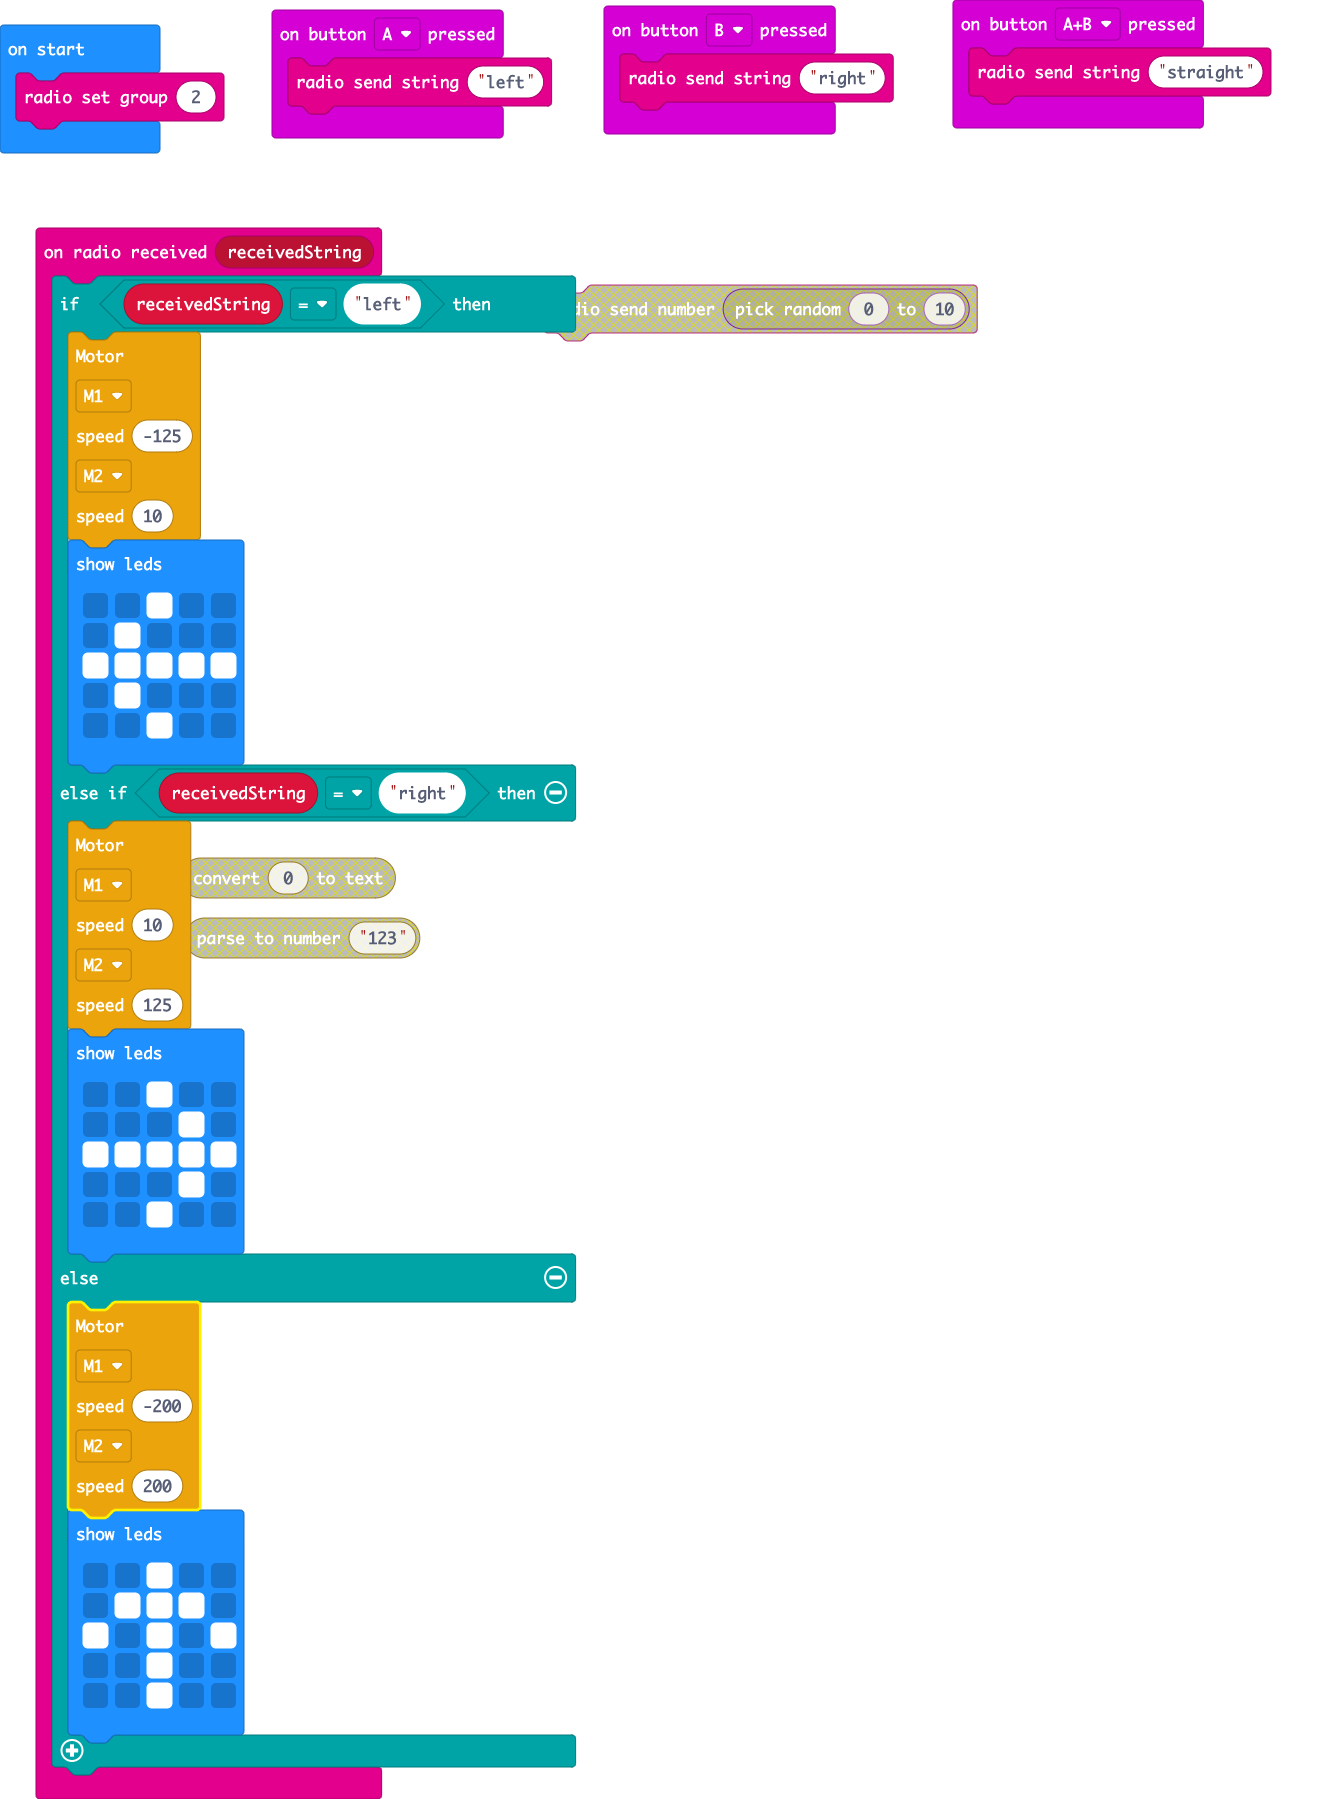
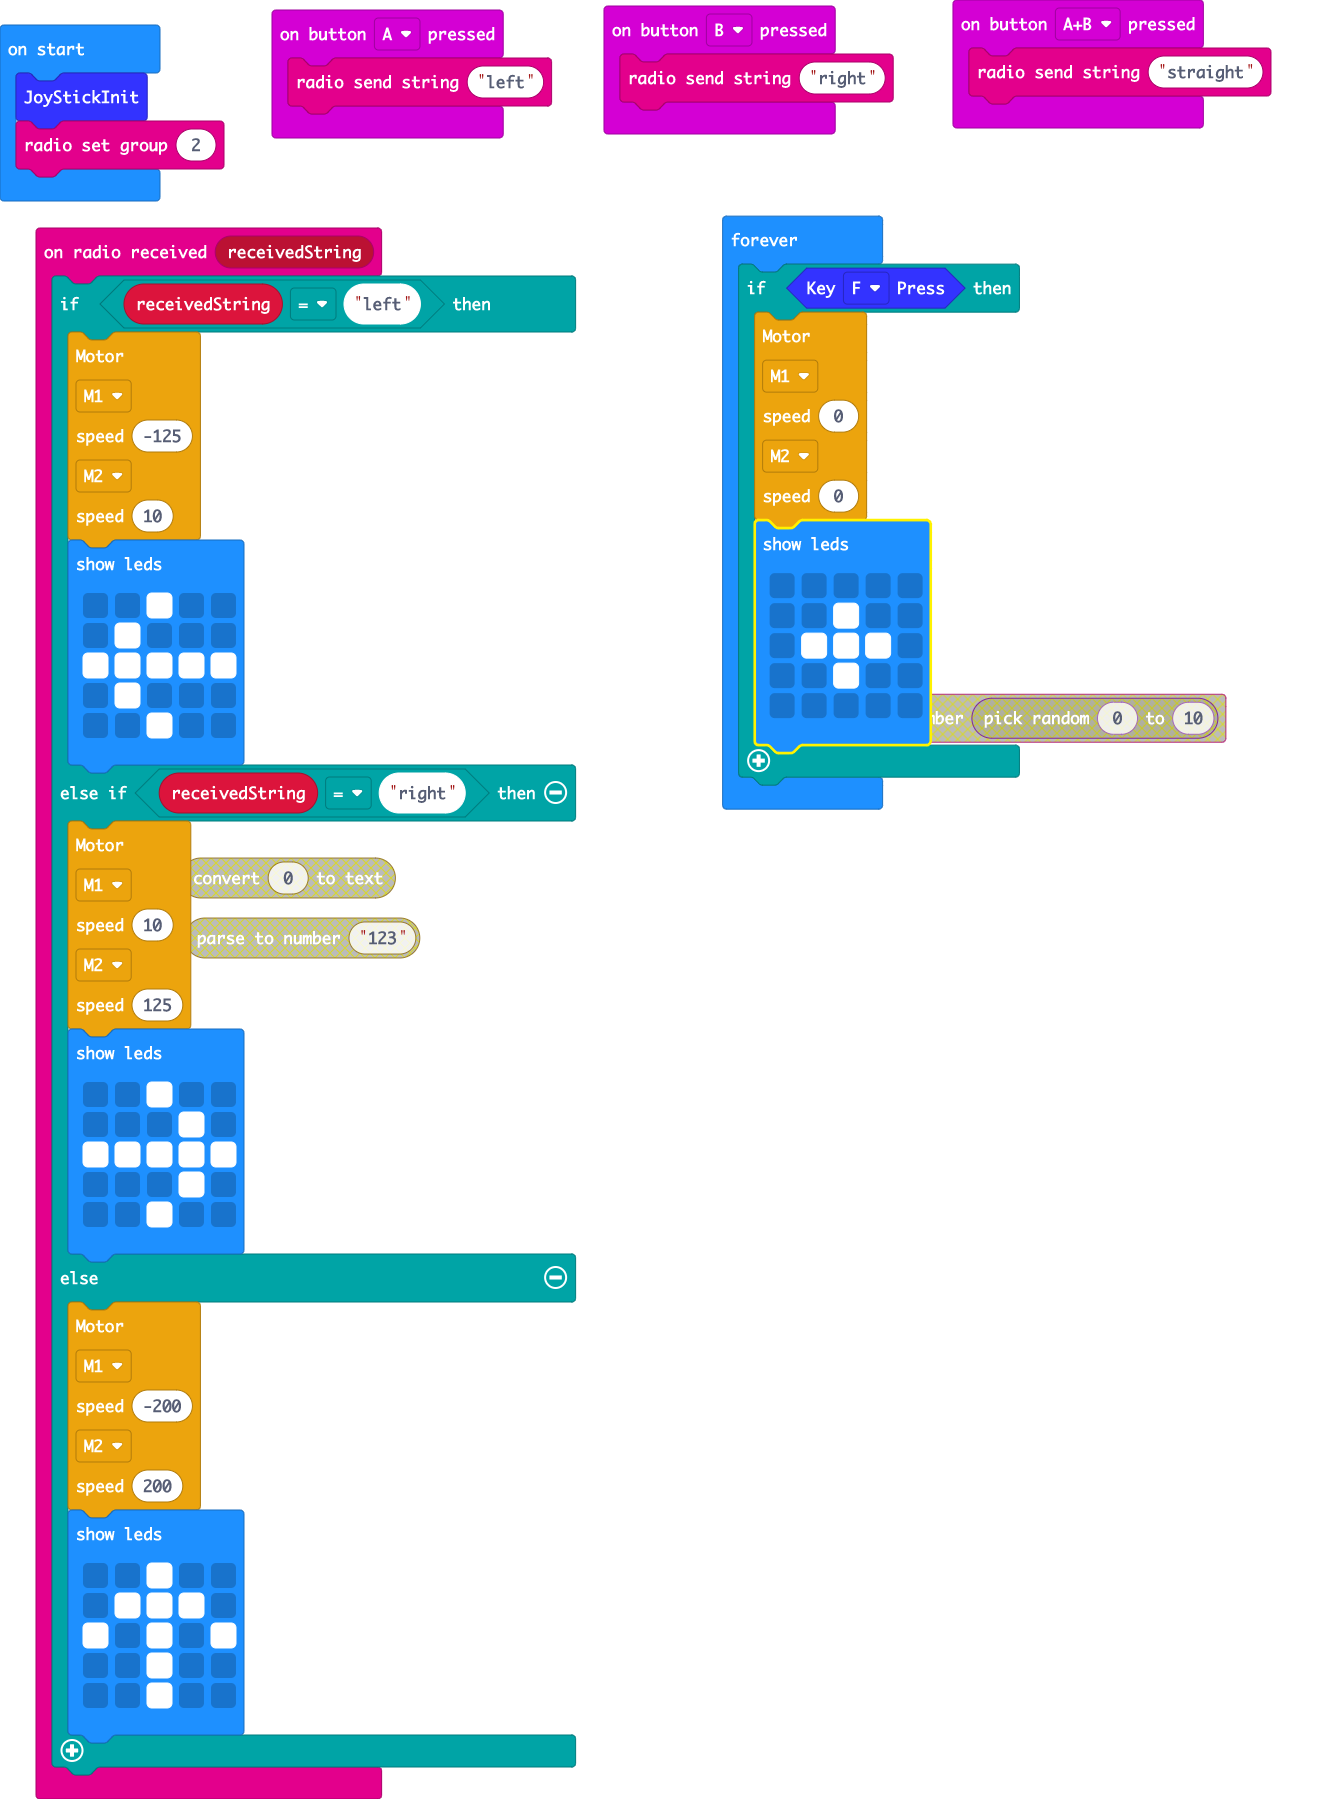
Update pxt.json, main.blocks, main.ts, main.py

diff --git a/main.ts b/main.ts
@@ -52,4 +52,22 @@ radio.onReceivedString(function (receivedString) {
 input.onButtonPressed(Button.B, function () {
     radio.sendString("right")
 })
+WSJoyStick.JoyStickInit()
 radio.setGroup(2)
+basic.forever(function () {
+    if (WSJoyStick.Listen_Key(KEY.F)) {
+        SuperBit.MotorRunDual(
+        SuperBit.enMotors.M1,
+        0,
+        SuperBit.enMotors.M2,
+        0
+        )
+        basic.showLeds(`
+            . . . . .
+            . . # . .
+            . # # # .
+            . . # . .
+            . . . . .
+            `)
+    }
+})

diff --git a/main.py b/main.py
@@ -1,0 +1,43 @@
+def on_button_pressed_a():
+    radio.send_string("left")
+input.on_button_pressed(Button.A, on_button_pressed_a)
+
+def on_button_pressed_ab():
+    radio.send_string("straight")
+input.on_button_pressed(Button.AB, on_button_pressed_ab)
+
+def on_received_string(receivedString):
+    if receivedString == "left":
+        SuperBit.motor_run_dual(SuperBit.enMotors.M1, -125, SuperBit.enMotors.M2, 10)
+        basic.show_leds("""
+            . . # . .
+            . # . . .
+            # # # # #
+            . # . . .
+            . . # . .
+            """)
+    elif receivedString == "right":
+        SuperBit.motor_run_dual(SuperBit.enMotors.M1, 10, SuperBit.enMotors.M2, 125)
+        basic.show_leds("""
+            . . # . .
+            . . . # .
+            # # # # #
+            . . . # .
+            . . # . .
+            """)
+    else:
+        SuperBit.motor_run_dual(SuperBit.enMotors.M1, -200, SuperBit.enMotors.M2, 200)
+        basic.show_leds("""
+            . . # . .
+            . # # # .
+            # . # . #
+            . . # . .
+            . . # . .
+            """)
+radio.on_received_string(on_received_string)
+
+def on_button_pressed_b():
+    radio.send_string("right")
+input.on_button_pressed(Button.B, on_button_pressed_b)
+
+radio.set_group(2)
